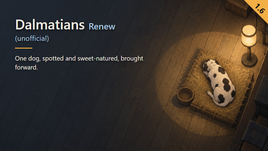
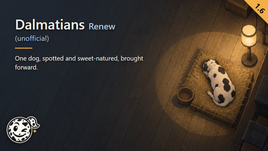
Preview: add the cut-out mascot, tilted +15° bottom-left; gallery opens on a copy of it
Owner's ruling, 2026-09-29 (two parts):
- The Preview mascot: ModIcon.png cut out of its black background (flood fill from the border) and
  placed in a bottom corner of Preview.png, tilted toward it (+15 left, -15 right). Done through the
  existing HTML/CSS + Playwright/sharp pipeline (Art/Preview.html, Art/Render-Preview.cjs), which
  reran its own contrast, byte-budget and font checks and passed. This composites the already
  validated icon; it does not generate a new one.
- Gallery order: Art/Workshop/00-preview.png, a copy of the shipped Preview.png, now opens the
  gallery ahead of 01 and 02.

Changed region(s): [[0.0, 0.7682, 0.1493, 0.9536]]

diff --git a/Art/Preview.html b/Art/Preview.html
@@ -16,6 +16,10 @@ h1 span { font-size:.65em; color:var(--inkSecondary); }
 .summary { width:430px; font-size:21px; font-weight:400; line-height:1.45; }
 .badge { position:absolute; right:0; top:0; width:80px; height:80px; background:var(--accent); clip-path:polygon(0 0,100% 0,100% 100%); }
 .version { position:absolute; left:869px; top:27px; transform:translate(-50%,-50%) rotate(45deg); font-size:26px; font-weight:700; line-height:1; color:var(--badgeInk); }
+/* Owner's ruling, 2026-09-29: the mascot (the mod icon, cut out) sits in a bottom corner of the
+   preview, tilted toward the corner it stands in — +15deg in the left corner, -15deg in the right
+   one. Bottom-left is chosen here: the floor there is empty, the crate at bottom-right is not. */
+.mascot { position:absolute; left:20px; bottom:16px; width:112px; height:112px; transform:rotate(15deg); filter:drop-shadow(0 3px 8px rgb(0 0 0 / .5)); }
 </style>
 <div class="scene"></div><div class="veil"></div>
 <div class="plate">
@@ -25,6 +29,7 @@ h1 span { font-size:.65em; color:var(--inkSecondary); }
   <p class="summary">One dog, spotted and sweet-natured, brought forward.</p>
 </div>
 <div class="badge"></div><p class="version"></p>
+<img class="mascot" src="ModIcon-cutout.png" alt="">
 <script>
 // The renderer supplies palette JSON and the highest stable About.xml version.
 window.preparePreview = async (palette, version) => {

diff --git a/STATUS.md b/STATUS.md
@@ -29,13 +29,26 @@ manual:       17 scenarios documented in TESTING.md; K reduced to one check (rem
 workshop:     3806709979 (item created private by the 0.1.0 prepublication of 2026-09-23; not the prepublished state)
 remaining:
   - unverified: done -> tested's no-@wip and every-conditional-scenario-played conditions are met (all eight Pickle launches green, docs/runs/2026-09-24-pass1-english.md); "no manual scenario left" is not yet, pending the owner's rows 1 and 4 of PUBLICATION.md (subscribe and tame on the installed copy; remove the mod from a save with a dalmatian)
-  - unverified: prepublished also needs the rollback target (none possible before the first publish, confirmed by the CI/CD session) and the three drafted comments posted only once the item is public. The gallery is done: both images committed to Art/Workshop/ and validated by the owner (2026-09-27, 2026-09-29)
+  - unverified: prepublished also needs the rollback target (none possible before the first publish, confirmed by the CI/CD session) and the three drafted comments posted only once the item is public. The gallery is done: Art/Workshop/ holds 00-preview.png, 01 and 02, in that order (owner's ruling, 2026-09-29: the gallery opens on a copy of Preview.png), both non-preview images validated by the owner (2026-09-27, 2026-09-29)
   - defect: the description sent by 0.1.0 still lacks IF I GO QUIET, AI-GENERATED, THANKS, the final Source code on GitHub link, Codex and the Pickle thanks; the CI/CD session confirmed on 2026-09-27 that it stays untouched (a Markdown rewrite under PUBLICATION.md's own "## Steam description" heading) until this mod's first publication; required for prepublished, not for done or tested
 session:      local_e7fdeacc-7649-4702-9f00-45be2663ced1
-updated:      2026-09-27
+updated:      2026-09-29
 ---
 
 # Dalmatians Renew — status
+
+## Gallery: showcase rulings — 2026-09-29
+
+The owner set two new rules for the showcase, applied today. **Gallery order**: `Art/Workshop/00-preview.png`
+is a copy of the shipped `Mod/About/Preview.png`, ahead of `01` and `02`; the numbering was `01`/`02` only until
+now. **The Preview mascot**: `ModIcon.png`, cut out of its solid black background (`Art/ModIcon-cutout.png`,
+flood fill from the border, near-black threshold, the disconnected sparkle untouched), sits in a bottom corner
+of `Preview.png`, tilted toward it — `+15°` left, `-15°` right. Bottom-left was chosen here (empty floor;
+the crate already sits bottom-right). Regenerated through the existing deterministic pipeline
+(`Art/Preview.html`'s new `.mascot` `<img>`, `Art/Render-Preview.cjs`, playwright + sharp reached via
+`NODE_PATH=$(npm root -g)`, Chrome at its default install path), not a manual edit of the shipped file: the
+same contrast, byte-budget (530 KB < 900 KB) and font checks ran and passed. This is compositing an already
+validated asset, not generating a new icon.
 
 ## Note from the CI/CD session — 2026-09-27
 

diff --git a/PUBLICATION.md b/PUBLICATION.md
@@ -106,8 +106,14 @@ seen live.
 
 ## Images
 
-- **Preview** (`Mod/About/Preview.png`, opened 2026-09-25): a dalmatian asleep on straw in lamplight, the
-  title and a `1.6` corner banner. No text about anything that is not in the mod.
+- **Preview** (`Mod/About/Preview.png`, opened 2026-09-25, regenerated 2026-09-29): a dalmatian asleep on straw
+  in lamplight, the title and a `1.6` corner banner. **Owner's ruling of 2026-09-29**: the mascot (`ModIcon.png`,
+  cut out of its black background, `Art/ModIcon-cutout.png`) sits in a bottom corner, tilted toward it — `+15°`
+  in the left corner, `-15°` in the right one. Bottom-left was chosen (empty floor there; the crate occupies
+  bottom-right). Done through the existing deterministic pipeline (`Art/Preview.html` + `Art/Render-Preview.cjs`,
+  playwright + sharp via `NODE_PATH`), not a one-off edit: the mascot is a new `<img>` in the HTML composition,
+  rendered and checked (contrast, byte budget, fonts) the same way as every other element. 530 KB. No text about
+  anything that is not in the mod.
 - **ModIcon** (`Mod/About/ModIcon.png`, 128 px, opened): a winking spotted mascot with a sparkle. This
   session generates no icon. At **32 px**, looked at enlarged on a grey ground, the wink and the smile
   still read and the spots blur into a speckle; the sparkle is three pixels. It reads as a winking
@@ -133,12 +139,16 @@ the frame's height. The game's camera stops at `RootSize` 11 (`CameraMapConfig.s
 at which a dog is about 45 px, so the shot lowers that minimum in its own step and zooms to 0.9 on the pair,
 standing side by side.
 
+**The owner's ruling of 2026-09-29**: the gallery now opens on a copy of the Preview itself. `00-preview.png`
+is `Mod/About/Preview.png` as it ships (with the mascot, see Images above), so the first thing a visitor sees
+on the page and in the gallery is the same image.
+
 | Order | File | What it shows | State |
 |---|---|---|---|
+| 0 | `00-preview.png` | A copy of `Mod/About/Preview.png` (the mascot in the bottom-left corner) | Same file as the shipped Preview, 517.8 KB |
 | 1 | `01-the-dalmatian-and-its-puppy.jpg` | The dalmatian and its puppy side by side, in the flower glade, filling about half the frame, no tooltip over them | Opened and read 2026-09-29; saved as JPEG q95 (the 1920x1080 PNG was 2.1 MB, over the 2 MB cap), 383 KB. **Validated by the owner on 2026-09-29** |
 | 2 | `02-the-information-card.png` | The card filtered to Wildness (0%), with the litter size and the source line, in the window and 16 px | Cropped to 980x787, 0.21 MB, **validated by the owner on 2026-09-27** |
 
-Whether the dog shot should come first (Steam shows the first one large) is the owner's call.
 The captures taken on the test fixture stay `@review` evidence, not gallery images.
 
 ## Dependencies and DLCs
